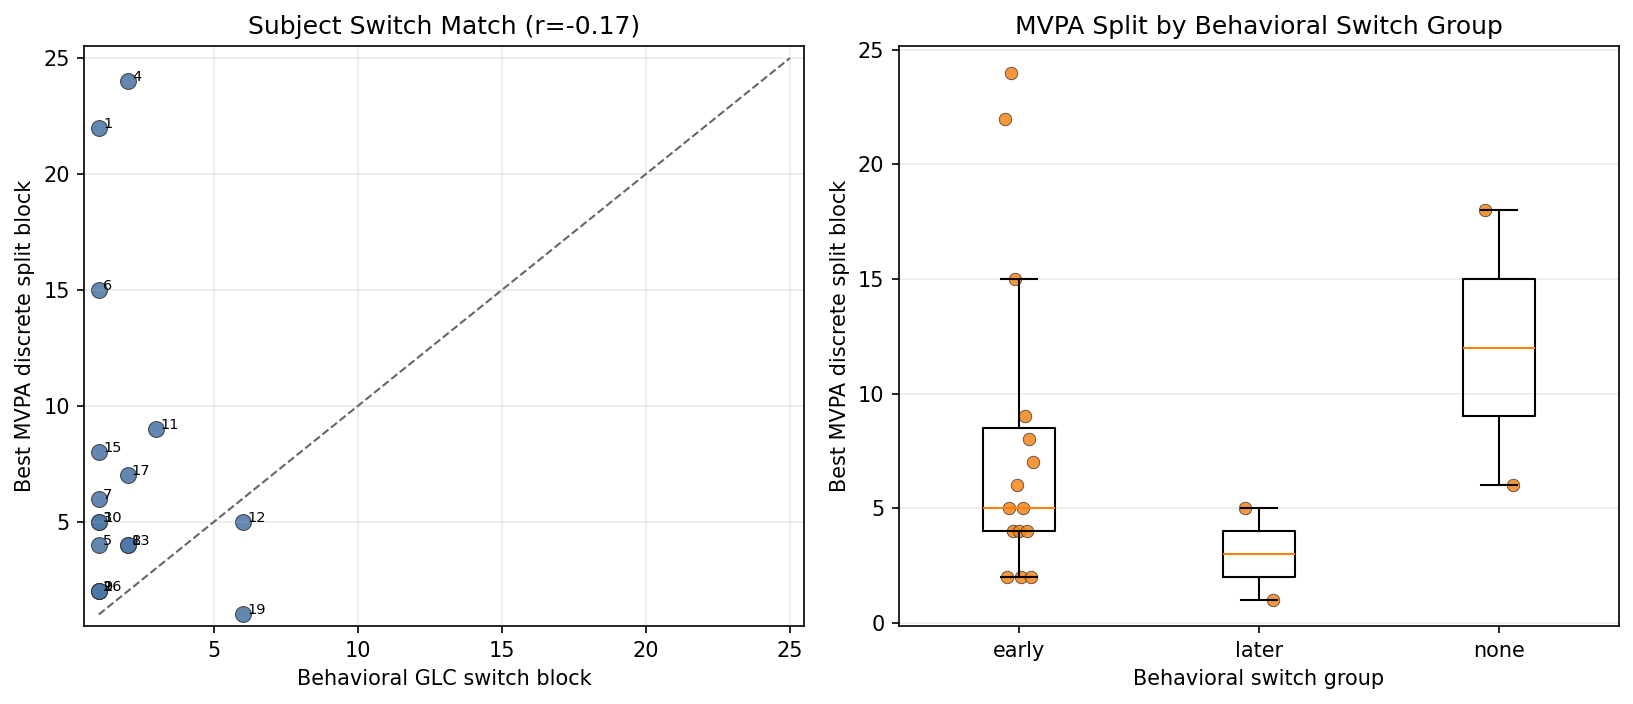
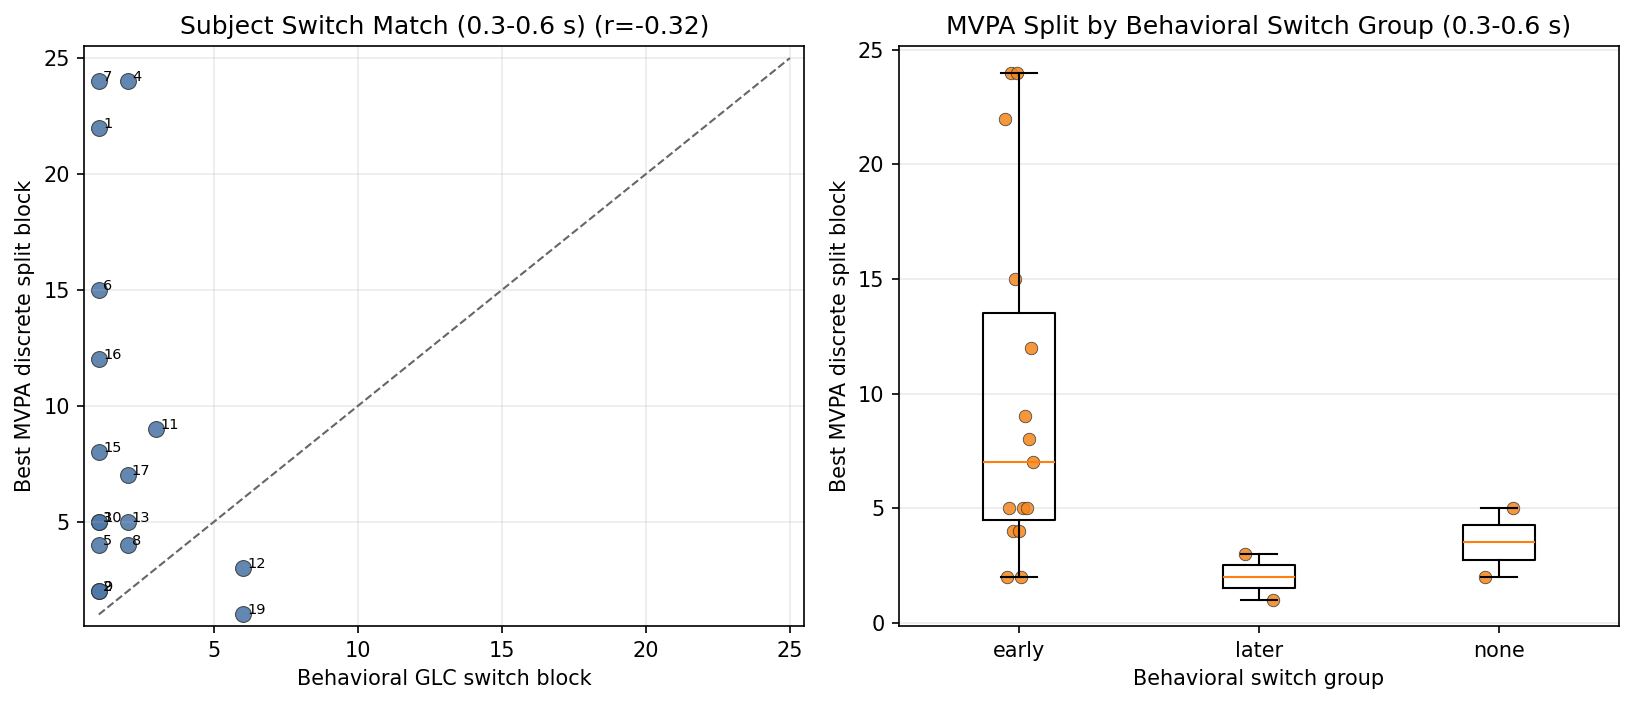
.

diff --git a/code/decision_bound_strategy_analysis.py b/code/decision_bound_strategy_analysis.py
@@ -12,6 +12,12 @@ os.environ.setdefault("NUMBA_DISABLE_JIT", "1")
 os.environ.setdefault("MNE_DONTWRITE_HOME", "true")
 os.environ.setdefault("MPLCONFIGDIR", "/tmp/mplconfig")
 os.environ.setdefault("XDG_CACHE_HOME", "/tmp/xdg-cache")
+os.environ.setdefault("OMP_NUM_THREADS", "1")
+os.environ.setdefault("OPENBLAS_NUM_THREADS", "1")
+os.environ.setdefault("MKL_NUM_THREADS", "1")
+os.environ.setdefault("VECLIB_MAXIMUM_THREADS", "1")
+os.environ.setdefault("NUMEXPR_NUM_THREADS", "1")
+os.environ.setdefault("BLIS_NUM_THREADS", "1")
 
 import numpy as np
 import pandas as pd
@@ -323,7 +329,7 @@ def infer_strategy_switch(weights_df, min_bic_advantage=0.0):
     return pd.DataFrame(rows).sort_values("subject")
 
 
-def extract_mvpa_split_blocks(output_dir, tmin=0.0, tmax=0.8):
+def extract_mvpa_split_blocks(output_dir, tmin=0.3, tmax=0.6):
     path = Path(output_dir) / "mvpa_block_model_timecourse_subject.csv"
     if not path.exists():
         raise FileNotFoundError(f"Missing MVPA block output: {path}")
@@ -355,6 +361,10 @@ def extract_mvpa_split_blocks(output_dir, tmin=0.0, tmax=0.8):
             "mean_evidence_above_baseline": "mvpa_split_mean_evidence_above_baseline",
         }
     )
+    split_summary["mvpa_tmin"] = float(tmin)
+    split_summary["mvpa_tmax"] = float(tmax)
+    best["mvpa_tmin"] = float(tmin)
+    best["mvpa_tmax"] = float(tmax)
     best["mvpa_best_split_day"] = ((best["mvpa_best_split_block"].astype(int) - 1) // 5) + 1
     best["mvpa_best_split_day_block"] = ((best["mvpa_best_split_block"].astype(int) - 1) % 5) + 1
     return split_summary, best.sort_values("subject")
@@ -399,6 +409,8 @@ def run_decision_bound_strategy_analysis(
     n_workers=None,
     max_subjects=None,
     min_bic_advantage=0.0,
+    mvpa_tmin=0.3,
+    mvpa_tmax=0.6,
 ):
     output_dir = Path(output_dir)
     output_dir.mkdir(parents=True, exist_ok=True)
@@ -441,7 +453,11 @@ def run_decision_bound_strategy_analysis(
         raise RuntimeError("Decision-bound fitting produced no valid rows")
     weights_df = add_model_weights(fits_df)
     switch_df = infer_strategy_switch(weights_df, min_bic_advantage=min_bic_advantage)
-    mvpa_split_summary, mvpa_best = extract_mvpa_split_blocks(output_dir)
+    mvpa_split_summary, mvpa_best = extract_mvpa_split_blocks(
+        output_dir,
+        tmin=mvpa_tmin,
+        tmax=mvpa_tmax,
+    )
     link_df = make_mvpa_link(switch_df, mvpa_best)
     block_summary = summarize_block_weights(weights_df)
 
@@ -472,6 +488,8 @@ def build_arg_parser():
     parser.add_argument("--n-workers", type=int, default=N_JOBS)
     parser.add_argument("--max-subjects", type=int, default=None)
     parser.add_argument("--min-bic-advantage", type=float, default=0.0)
+    parser.add_argument("--mvpa-tmin", type=float, default=0.3)
+    parser.add_argument("--mvpa-tmax", type=float, default=0.6)
     return parser
 
 
@@ -482,4 +500,6 @@ if __name__ == "__main__":
         n_workers=args.n_workers,
         max_subjects=args.max_subjects,
         min_bic_advantage=args.min_bic_advantage,
+        mvpa_tmin=args.mvpa_tmin,
+        mvpa_tmax=args.mvpa_tmax,
     )

diff --git a/code/decision_bound_strategy_figure.py b/code/decision_bound_strategy_figure.py
@@ -196,6 +196,9 @@ def save_glc_advantage_heatmap(weights_df, switch_df, figures_dir):
 def save_mvpa_link_figure(link_df, figures_dir):
     fig_path = figures_dir / "decision_bound_mvpa_switch_link.png"
     d = link_df.copy()
+    window_label = ""
+    if {"mvpa_tmin", "mvpa_tmax"}.issubset(d.columns) and d["mvpa_tmin"].notna().any():
+        window_label = f" ({float(d['mvpa_tmin'].dropna().iloc[0]):.1f}-{float(d['mvpa_tmax'].dropna().iloc[0]):.1f} s)"
     fig, axes = plt.subplots(1, 2, figsize=(11.0, 4.8))
     finite = d[np.isfinite(d["strategy_switch_block"]) & np.isfinite(d["mvpa_best_split_block"])].copy()
     if finite.empty:
@@ -217,9 +220,9 @@ def save_mvpa_link_figure(link_df, figures_dir):
         axes[0].plot([lo, hi], [lo, hi], color="0.4", linestyle="--", linewidth=1.0)
         if len(finite) > 2:
             corr = np.corrcoef(finite["strategy_switch_block"], finite["mvpa_best_split_block"])[0, 1]
-            axes[0].set_title(f"Subject Switch Match (r={corr:.2f})")
+            axes[0].set_title(f"Subject Switch Match{window_label} (r={corr:.2f})")
         else:
-            axes[0].set_title("Subject Switch Match")
+            axes[0].set_title(f"Subject Switch Match{window_label}")
     axes[0].set_xlabel("Behavioral GLC switch block")
     axes[0].set_ylabel("Best MVPA discrete split block")
     axes[0].set_xlim(0.5, 25.5)
@@ -235,7 +238,7 @@ def save_mvpa_link_figure(link_df, figures_dir):
             axes[1].scatter(np.full(len(arr), i) + jitter, arr, color="#f58518", alpha=0.85, edgecolor="0.2", linewidth=0.4)
     axes[1].set_ylabel("Best MVPA discrete split block")
     axes[1].set_xlabel("Behavioral switch group")
-    axes[1].set_title("MVPA Split by Behavioral Switch Group")
+    axes[1].set_title(f"MVPA Split by Behavioral Switch Group{window_label}")
     axes[1].grid(axis="y", alpha=0.25)
     fig.tight_layout()
     fig.savefig(fig_path, dpi=150, bbox_inches="tight")
